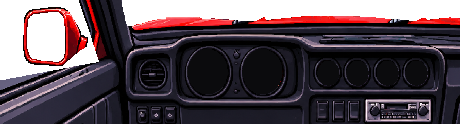
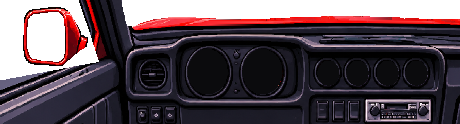
v0.73.4: capô da Onça GTB uniforme (sem o pivô e a palheta do limpador da arte, borda lisa)
Claude-Session: https://claude.ai/code/session_01MLD9VR7gkmY4w6a9beZcp6

diff --git a/tools/ref/pumagtb_cockpit.py b/tools/ref/pumagtb_cockpit.py
@@ -54,7 +54,7 @@ MIR_SRC, MIR_DST, MIR_W = 52, 124, 98   # emenda em x 222, onde a moldura tem a 
 MIR_MID, MIR_KY = 310.0, 1.0
 DIALS = [(669, 400, 58.0), (830, 400, 58.0), (1024, 404, 32.0), (1110, 404, 32.0), (1198, 404, 32.0), (1283, 404, 32.0)]
 FACE = (11, 11, 13)
-WIPERS = [(690, 800), (1150, 1275)]   # faixas (x) onde os limpadores encostam no capô
+WIPERS = [(680, 815), (1140, 1285)]   # faixas (x) onde os limpadores encostam no capô
 
 def poly(shape, pts):
     return cv2.fillPoly(np.zeros(shape, np.uint8), [np.array(pts, np.int32)], 1) > 0
@@ -81,6 +81,10 @@ def hood_line(W, img=None):
     ys = np.array(ys, float)
     ys = np.array([np.median(ys[max(0, i - 6):i + 7]) for i in range(len(ys))])
     h = np.interp(np.arange(W), xs, ys)
+    # borda lisa (pedido do Victor: capô uniforme, sem dentes nem restos do limpador): curva suave pelos pontos
+    sel = np.arange(446, W)
+    cf = np.polyfit(sel, h[sel], 6)
+    h[sel] = np.round(np.polyval(cf, sel))
     HOOD_CACHE['h'] = h
     return h
 
@@ -178,6 +182,27 @@ def clean(nw):
         lim = int(top[x]) + (r.max() if len(r) else 0)
         hole[lim + 1:, x] = False
     out = cv2.inpaint(out, hole.astype(np.uint8), 4, cv2.INPAINT_TELEA)
+    # nas faixas dos limpadores, cada linha do capô (da borda até 20 linhas abaixo) vai da cor de fora da
+    # esquerda para a de fora da direita: some o pivô e a palheta
+    for x0, x1 in WIPERS:
+        for y in range(int(min(top[x0:x1])) - 1, int(max(top[x0:x1])) + 20):
+            cl = np.median(out[y, x0 - 4:x0].astype(float), axis=0)
+            cr = np.median(out[y, x1:x1 + 4].astype(float), axis=0)
+            t = ((np.arange(x1 - x0) + 0.5) / (x1 - x0))[:, None]
+            out[y, x0:x1] = (cl * (1 - t) + cr * t).astype(np.uint8)
+    # da borda lisa até o primeiro vermelho de cada coluna: o vermelho claro da borda (sem asfalto nos dentes)
+    a2 = out.astype(int)
+    red2 = (a2[..., 0] > a2[..., 1] + 60) & (a2[..., 0] > 150)   # vermelho claro da lataria (o escuro da quina é contorno)
+    for x in range(446, W):
+        y0 = int(top[x])
+        r = np.nonzero(red2[y0:y0 + 12, x])[0]
+        if len(r) and r[0] > 0:
+            out[y0:y0 + r[0], x] = out[y0 + r[0], x]
+        # pontos escuros soltos nas 3 primeiras linhas (contorno quebrado da arte): o vermelho de baixo
+        for y in range(y0 + 8, y0 - 1, -1):   # (a palheta deitada sobre a borda do capô: até 8 linhas)
+            if not red2[y, x] and red2[y + 1:y + 9, x].any():
+                out[y, x] = out[y + 1 + int(np.argmax(red2[y + 1:y + 9, x])), x]
+                red2[y, x] = True
     # forro desenhado no alto (a arte não tem): cinza-escuro com a borda clara de baixo e a moldura preta
     ln = liner_line(W)
     left = pillar_edge(nw)
